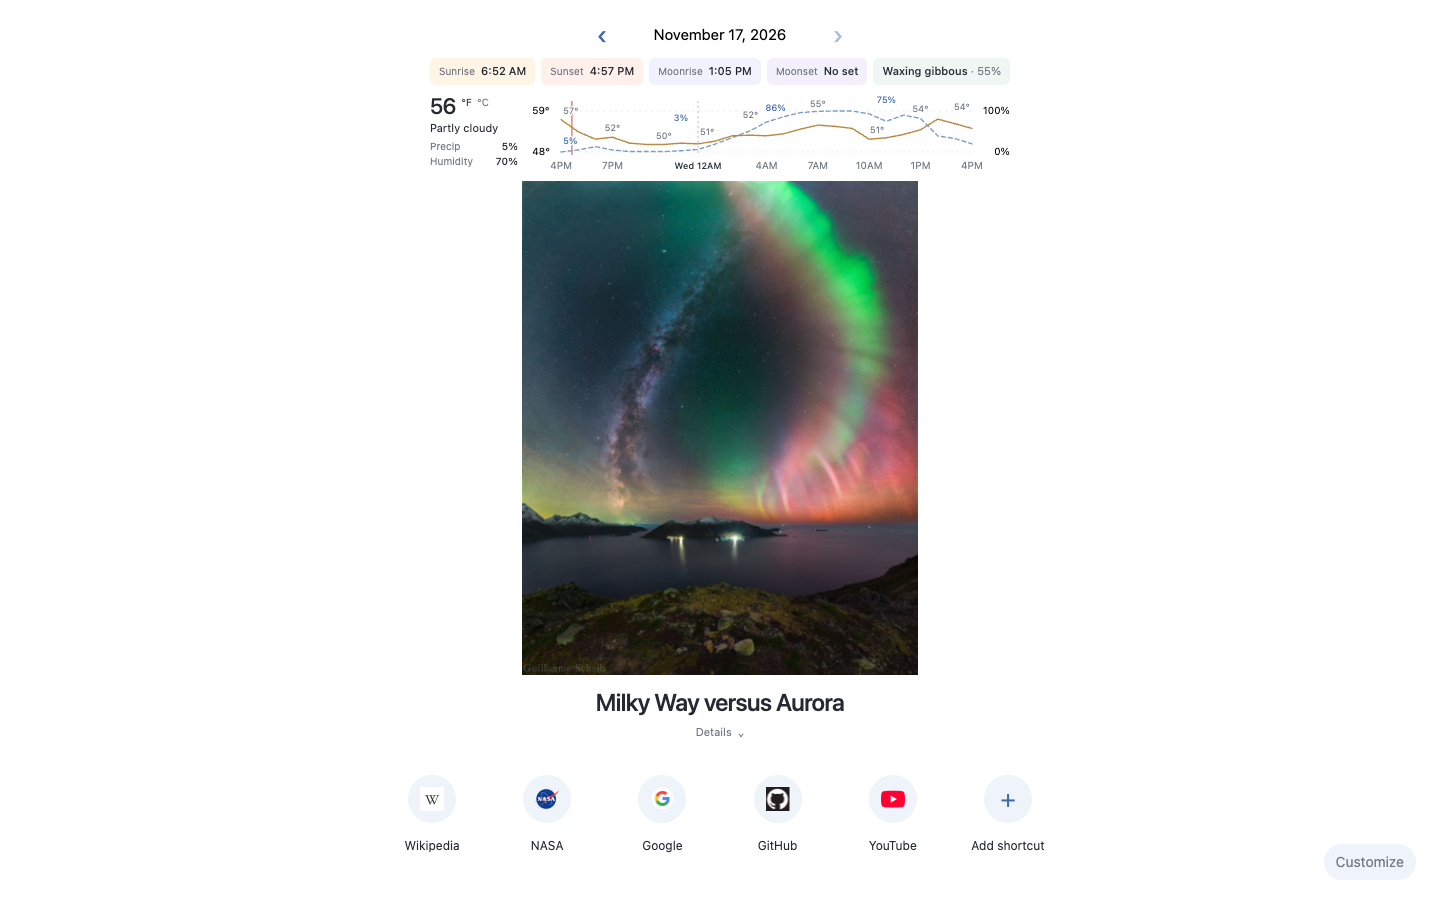
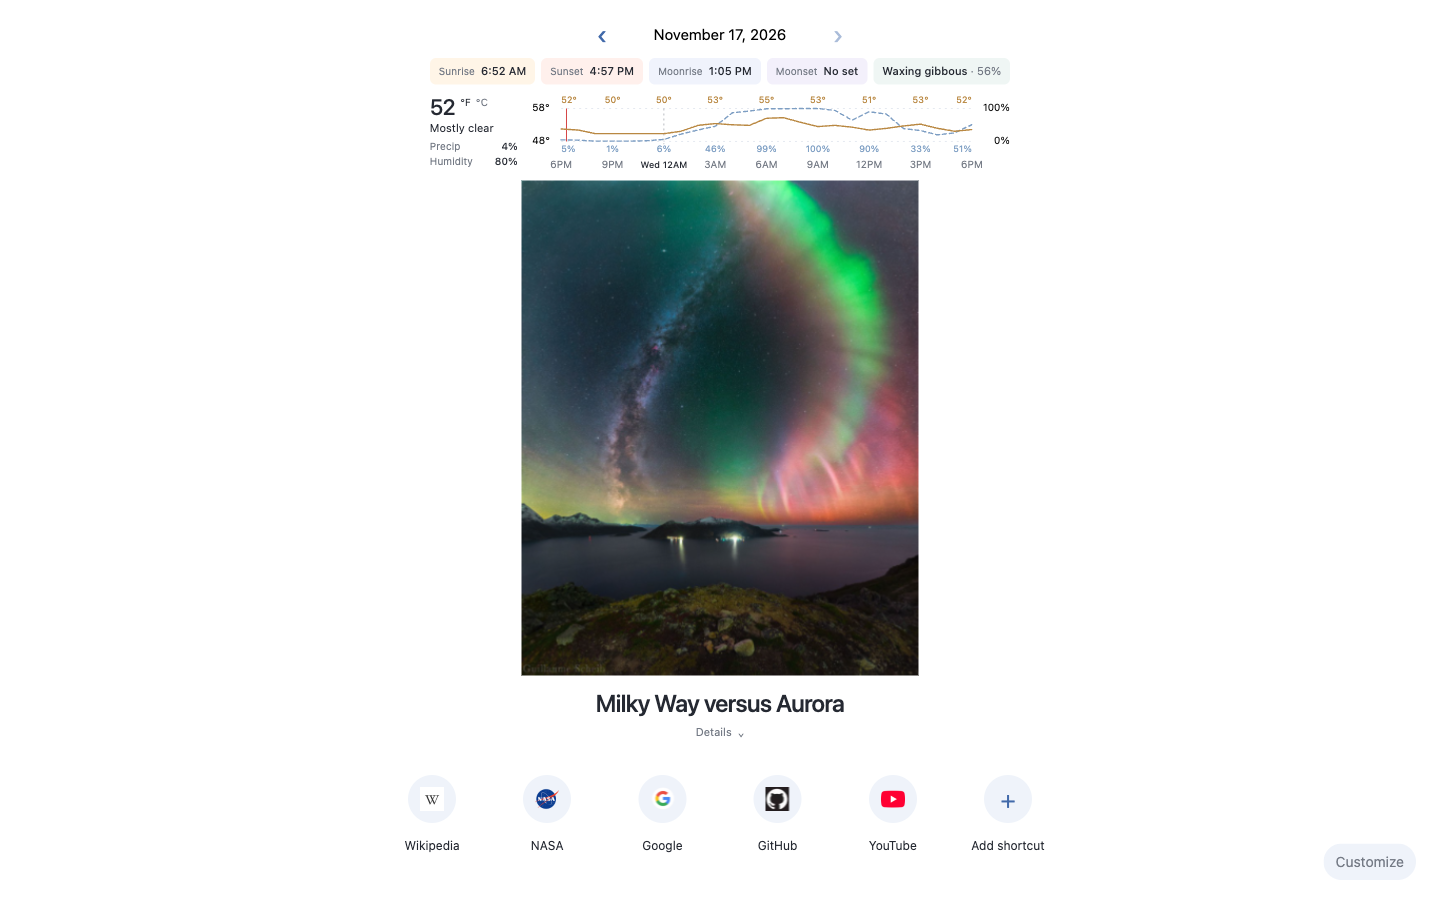
Align weather values in color-matched rows above and below the plot

diff --git a/extension/weather.js b/extension/weather.js
@@ -21,7 +21,7 @@ function svgNode(tag, attributes = {}, text) {
 function renderChart(forecast) {
   const width = Math.max(100, $('weather-chart').clientWidth);
   const height = 78;
-  const left = 29, right = width - 38, top = 18, bottom = 59;
+  const left = 29, right = width - 38, top = 16, bottom = 49;
   const { hours, min, max } = forecast;
   const x = i => left + i / (hours.length - 1) * (right - left);
   const yTemperature = value => bottom - (value - min) / (max - min) * (bottom - top);
@@ -39,12 +39,12 @@ function renderChart(forecast) {
   for (const [value, y] of [[max, top], [min, bottom]]) svg.append(svgNode('text', { x: 0, y: y + 3, class: 'temperature-axis' }, `${value}°`));
   for (const [value, y] of [[100, top], [0, bottom]]) svg.append(svgNode('text', { x: width, y: y + 3, 'text-anchor': 'end', class: 'rain-axis' }, `${value}%`));
   for (const i of boundaries) {
-    svg.append(svgNode('line', { x1: x(i), x2: x(i), y1: 8, y2: bottom + 3, class: 'day-boundary' }));
+    svg.append(svgNode('line', { x1: x(i), x2: x(i), y1: top, y2: bottom + 3, class: 'day-boundary' }));
   }
   const now = Date.now();
   if (now >= hours[0].time && now <= hours.at(-1).time) {
     const currentX = left + (now - hours[0].time) / (hours.at(-1).time - hours[0].time) * (right - left);
-    svg.append(svgNode('line', { x1: currentX, x2: currentX, y1: 8, y2: bottom + 3, class: 'current-time', 'aria-label': 'Current time' }));
+    svg.append(svgNode('line', { x1: currentX, x2: currentX, y1: top, y2: bottom, class: 'current-time', 'aria-label': 'Current time' }));
   }
   // Missing observations break the line rather than silently becoming zero.
   for (const [field, y, className] of [['rain', yRain, 'rain-line'], ['temperature', yTemperature, 'temperature-line']]) {
@@ -65,47 +65,20 @@ function renderChart(forecast) {
     }
   });
 
-  // Stagger precipitation between the temperature labels. Check every candidate
-  // against both curves and previously placed labels; omit one if space runs out.
-  const measure = document.createElement('canvas').getContext('2d');
-  measure.font = '9px -apple-system, BlinkMacSystemFont, "Segoe UI", sans-serif';
-  const occupied = [];
-  const lines = [['temperature', yTemperature], ['rain', yRain]];
-  function crossesCurve(box) {
-    return lines.some(([field, y]) => hours.some((hour, i) => {
-      if (!i || hour[field] === null || hours[i - 1][field] === null) return false;
-      const x1 = x(i - 1), x2 = x(i);
-      if (x2 < box.left || x1 > box.right) return false;
-      const y1 = y(hours[i - 1][field]), y2 = y(hour[field]);
-      const at = px => y1 + (px - x1) / (x2 - x1) * (y2 - y1);
-      const a = at(Math.max(x1, box.left)), b = at(Math.min(x2, box.right));
-      return Math.max(a, b) >= box.top - 2 && Math.min(a, b) <= box.bottom + 2;
-    }));
-  }
-  function annotate(index, field, y, suffix, className) {
-    const value = hours[index][field];
-    if (value === null) return;
-    const text = `${Math.round(value)}${suffix}`;
-    const half = measure.measureText(text).width / 2;
-    for (const rise of [6, 18, 30, 42]) {
-      const baseline = y(value) - rise;
-      if (baseline < 10) continue;
-      for (const shift of [0, 8, -8, 16, -16]) {
-        const cx = Math.max(left + half + 2, Math.min(right - half - 2, x(index) + shift));
-        const box = { left: cx - half - 2, right: cx + half + 2, top: baseline - 9, bottom: baseline + 2 };
-        if (occupied.some(other => box.left < other.right + 3 && box.right > other.left - 3 && box.top < other.bottom + 2 && box.bottom > other.top - 2) || crossesCurve(box)) continue;
-        occupied.push(box);
-        svg.append(svgNode('text', { x: cx, y: baseline, 'text-anchor': 'middle', class: `chart-annotation ${className}` }, text));
-        return;
-      }
+  // Keep both value rows aligned with the same hourly positions.
+  for (let i = 0; i < hours.length; i += step) {
+    for (const [field, suffix, baseline, className] of [
+      ['temperature', '°', top - 5, 'temperature-value'],
+      ['rain', '%', bottom + 11, 'precipitation-value']
+    ]) {
+      if (hours[i][field] === null) continue;
+      svg.append(svgNode('text', { x: x(i), y: baseline, 'text-anchor': i === 0 ? 'start' : i === hours.length - 1 ? 'end' : 'middle', class: `chart-annotation ${className}` }, `${Math.round(hours[i][field])}${suffix}`));
     }
   }
-  for (let i = 0; i < hours.length; i += step) annotate(i, 'temperature', yTemperature, '°', 'temperature-value');
-  for (let i = Math.max(1, Math.floor(step / 2)); i < hours.length; i += step * 2) annotate(i, 'rain', yRain, '%', 'precipitation-value');
 
   svg.append(svgNode('rect', { x: 0, y: 0, width, height, fill: 'transparent', 'aria-hidden': 'true' }));
   const scrub = svgNode('g', { class: 'weather-scrub', visibility: 'hidden', 'aria-hidden': 'true', 'pointer-events': 'none' });
-  const guide = svgNode('line', { y1: 17, y2: bottom + 3 });
+  const guide = svgNode('line', { y1: top, y2: bottom + 3 });
   const temperatureDot = svgNode('circle', { r: 2.5, class: 'scrub-temperature' });
   const rainDot = svgNode('circle', { r: 2.5, class: 'scrub-rain' });
   scrub.append(guide, temperatureDot, rainDot);

diff --git a/extension/newtab.css b/extension/newtab.css
@@ -108,7 +108,8 @@ legend { padding: 0; margin-bottom: 10px; font-weight: 600; }
 .weather-chart .day-boundary { stroke: var(--muted); opacity: .5; stroke-dasharray: 2 3; }
 .weather-chart .day-label { fill: var(--fg); font-size: 9px; font-weight: 500; }
 .weather-chart .chart-annotation { font-size: 9px; paint-order: stroke; stroke: var(--bg); stroke-width: 3px; stroke-linejoin: round; }
-.weather-chart .precipitation-value { fill: var(--accent); }
+.weather-chart .temperature-value { fill: var(--weather-temp); }
+.weather-chart .precipitation-value { fill: var(--weather-rain); }
 .weather-chart .temperature-line { stroke: var(--weather-temp); }
 .weather-chart .rain-line { stroke: var(--weather-rain); stroke-dasharray: 4 3; }
 .weather-chart .forecast-line { fill: none; stroke-width: 1.4; stroke-linejoin: round; stroke-linecap: round; vector-effect: non-scaling-stroke; }
